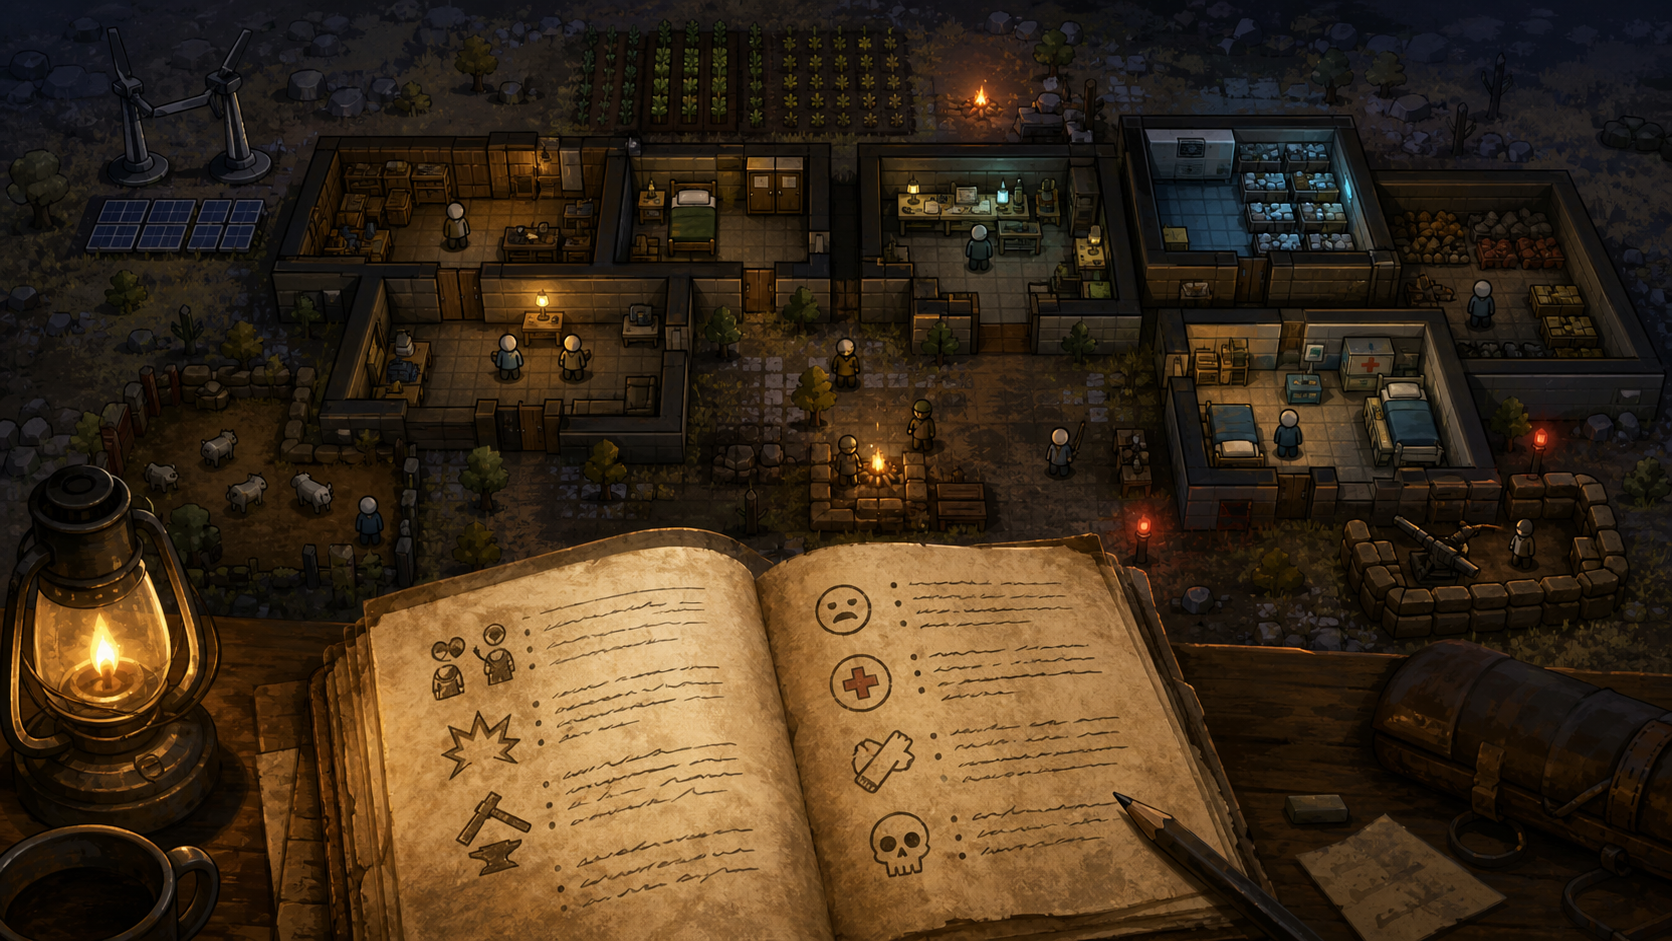
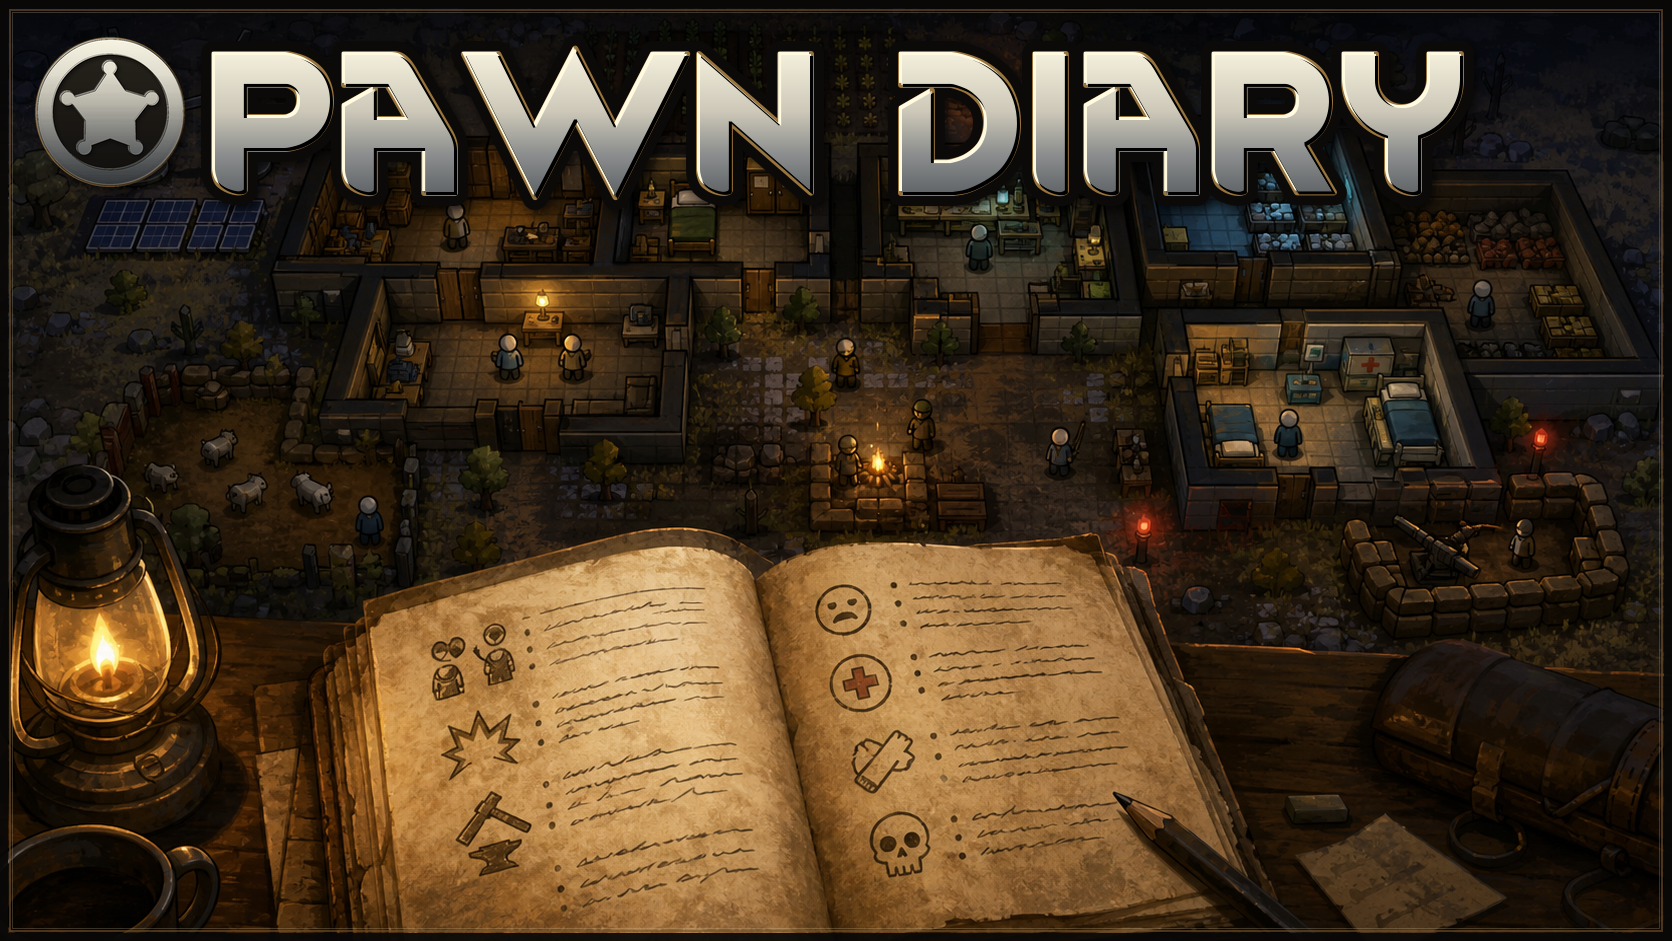
Fix transient cache growth and update preview

diff --git a/Source/Core/DiaryGameComponent.Lookup.cs b/Source/Core/DiaryGameComponent.Lookup.cs
@@ -19,7 +19,14 @@ namespace PawnDiary
         /// </summary>
         private bool RecentlyRecorded(Dictionary<string, int> recentEvents, string key, int windowTicks)
         {
+            if (recentEvents == null || string.IsNullOrEmpty(key))
+            {
+                return false;
+            }
+
             int now = Find.TickManager.TicksGame;
+            PruneRecentEvents(recentEvents, now, windowTicks);
+
             int last;
             if (recentEvents.TryGetValue(key, out last) && now - last < windowTicks)
             {
@@ -28,6 +35,42 @@ namespace PawnDiary
 
             recentEvents[key] = now;
             return false;
+        }
+
+        /// <summary>
+        /// Removes dedup keys that are older than their useful window. The dictionaries are transient
+        /// and only answer "did this just happen?", so old keys should not survive a long play session.
+        /// </summary>
+        private static void PruneRecentEvents(Dictionary<string, int> recentEvents, int now, int windowTicks)
+        {
+            if (recentEvents == null || recentEvents.Count < RecentEventPruneThreshold)
+            {
+                return;
+            }
+
+            List<string> expiredKeys = null;
+            foreach (KeyValuePair<string, int> pair in recentEvents)
+            {
+                if (windowTicks <= 0 || now - pair.Value >= windowTicks)
+                {
+                    if (expiredKeys == null)
+                    {
+                        expiredKeys = new List<string>();
+                    }
+
+                    expiredKeys.Add(pair.Key);
+                }
+            }
+
+            if (expiredKeys == null)
+            {
+                return;
+            }
+
+            for (int i = 0; i < expiredKeys.Count; i++)
+            {
+                recentEvents.Remove(expiredKeys[i]);
+            }
         }
 
         /// <summary>

diff --git a/Source/Defs/DiaryPersonaDef.cs b/Source/Defs/DiaryPersonaDef.cs
@@ -51,6 +51,10 @@ namespace PawnDiary
 
         // Wrapped in a list so All can return a non-null IReadOnlyList even with zero XML defs.
         private static readonly List<DiaryPersonaDef> FallbackList = new List<DiaryPersonaDef> { Fallback };
+        private static IReadOnlyList<DiaryPersonaDef> cachedAll;
+        private static IReadOnlyList<DiaryPersonaDef> cachedBaseList;
+        private static int cachedBaseCount = -1;
+        private static PawnDiarySettings cachedSettings;
 
         /// <summary>
         /// All loaded persona defs, or the hardcoded fallback list if none exist in XML.
@@ -61,8 +65,32 @@ namespace PawnDiary
             {
                 List<DiaryPersonaDef> defs = DefDatabase<DiaryPersonaDef>.AllDefsListForReading;
                 IReadOnlyList<DiaryPersonaDef> baseList = defs != null && defs.Count > 0 ? defs : FallbackList;
-                return MergeWithSettings(baseList);
+                PawnDiarySettings settings = PawnDiaryMod.Settings;
+                if (cachedAll != null
+                    && ReferenceEquals(cachedBaseList, baseList)
+                    && cachedBaseCount == baseList.Count
+                    && ReferenceEquals(cachedSettings, settings))
+                {
+                    return cachedAll;
+                }
+
+                cachedBaseList = baseList;
+                cachedBaseCount = baseList.Count;
+                cachedSettings = settings;
+                cachedAll = MergeWithSettings(baseList, settings);
+                return cachedAll;
             }
+        }
+
+        /// <summary>
+        /// Clears the merged persona catalog after settings-backed preset edits or load-time cleanup.
+        /// </summary>
+        public static void InvalidateCache()
+        {
+            cachedAll = null;
+            cachedBaseList = null;
+            cachedBaseCount = -1;
+            cachedSettings = null;
         }
 
         /// <summary>
@@ -201,9 +229,9 @@ namespace PawnDiary
         }
 
         // Builds the effective runtime catalog from XML defs plus settings-based edits/custom rows.
-        private static IReadOnlyList<DiaryPersonaDef> MergeWithSettings(IReadOnlyList<DiaryPersonaDef> baseList)
+        private static IReadOnlyList<DiaryPersonaDef> MergeWithSettings(IReadOnlyList<DiaryPersonaDef> baseList,
+            PawnDiarySettings settings)
         {
-            PawnDiarySettings settings = PawnDiaryMod.Settings;
             if (settings == null)
             {
                 return baseList;

diff --git a/Source/Settings/PawnDiarySettings.cs b/Source/Settings/PawnDiarySettings.cs
@@ -220,6 +220,10 @@ namespace PawnDiary
             Scribe_Collections.Look(ref personaPresets, "personaPresets", LookMode.Deep);
 
             ClampValues();
+            if (Scribe.mode == LoadSaveMode.PostLoadInit)
+            {
+                DiaryPersonas.InvalidateCache();
+            }
         }
 
         /// <summary>
@@ -762,6 +766,8 @@ namespace PawnDiary
                 existing.themes = NormalizeThemes(themes);
                 existing.custom = false;
             }
+
+            DiaryPersonas.InvalidateCache();
         }
 
         /// <summary>
@@ -774,7 +780,10 @@ namespace PawnDiary
                 return;
             }
 
-            personaPresets.RemoveAll(preset => preset != null && !preset.custom && preset.defName == defName);
+            if (personaPresets.RemoveAll(preset => preset != null && !preset.custom && preset.defName == defName) > 0)
+            {
+                DiaryPersonas.InvalidateCache();
+            }
         }
 
         /// <summary>
@@ -790,6 +799,7 @@ namespace PawnDiary
                 string.Empty,
                 new[] { DiaryPersonas.PredefinedThemeTags[0] },
                 true));
+            DiaryPersonas.InvalidateCache();
             return defName;
         }
 
@@ -803,7 +813,10 @@ namespace PawnDiary
                 return;
             }
 
-            personaPresets.RemoveAll(preset => preset != null && preset.custom && preset.defName == defName);
+            if (personaPresets.RemoveAll(preset => preset != null && preset.custom && preset.defName == defName) > 0)
+            {
+                DiaryPersonas.InvalidateCache();
+            }
         }
 
         /// <summary>
@@ -813,6 +826,7 @@ namespace PawnDiary
         {
             EnsurePersonaPresetList();
             personaPresets.Clear();
+            DiaryPersonas.InvalidateCache();
         }
 
         // Generates deterministic custom persona keys so they are stable across saves and merges.

diff --git a/Source/UI/ITab_Pawn_Diary.cs b/Source/UI/ITab_Pawn_Diary.cs
@@ -91,6 +91,9 @@ namespace PawnDiary
         // the only visible effect is that currently-shown cards fade in once more, which is rare (it
         // takes hundreds of distinct entry states to trigger) and harmless.
         private const int MaxFirstSeenEntries = 512;
+        // Same idea for per-card expand/collapse animation blends. The tab object is long-lived and
+        // shared across pawns, so stale animation keys should not accumulate forever.
+        private const int MaxExpansionBlendEntries = MaxFirstSeenEntries;
         // Old saves have only the display date, not an absolute tick. Use this sentinel when a
         // date cannot be grouped into a game year; such entries stay reachable on an "undated" page.
         private const int UnknownYear = int.MinValue;
@@ -549,6 +552,11 @@ namespace PawnDiary
             float current;
             if (!entryExpansionBlend.TryGetValue(entryKey, out current))
             {
+                if (entryExpansionBlend.Count >= MaxExpansionBlendEntries)
+                {
+                    entryExpansionBlend.Clear();
+                }
+
                 current = target;
             }
             else if (delta > 0f)

diff --git a/Source/Core/DiaryGameComponent.AmbientThoughts.cs b/Source/Core/DiaryGameComponent.AmbientThoughts.cs
@@ -4,6 +4,7 @@
 // entry per thought. Major thoughts still flow through DiaryGameComponent.Thoughts.cs immediately.
 using System;
 using System.Collections.Generic;
+using System.Globalization;
 using System.Text;
 using RimWorld;
 using Verse;
@@ -168,7 +169,7 @@ namespace PawnDiary
                 + "; events=" + note.eventCount
                 + "; day=" + note.dayIndex
                 + "; mood_impact=" + moodImpact
-                + "; mood_offset_sum=" + note.totalMoodOffset.ToString("F1")
+                + "; mood_offset_sum=" + note.totalMoodOffset.ToString("F1", CultureInfo.InvariantCulture)
                 + "; first_tick=" + note.firstTick
                 + "; last_tick=" + note.lastTick;
 
@@ -265,7 +266,7 @@ namespace PawnDiary
         /// </summary>
         private static string AmbientThoughtLine(string label, float moodOffset)
         {
-            return DiaryContextBuilder.CleanLine(label) + " (" + moodOffset.ToString("F1") + ")";
+            return DiaryContextBuilder.CleanLine(label) + " (" + moodOffset.ToString("F1", CultureInfo.InvariantCulture) + ")";
         }
 
         /// <summary>

diff --git a/Source/Core/DiaryGameComponent.Thoughts.cs b/Source/Core/DiaryGameComponent.Thoughts.cs
@@ -7,6 +7,7 @@
 // This is one piece of the partial DiaryGameComponent class — see DiaryGameComponent.cs for the map.
 using System;
 using System.Collections.Generic;
+using System.Globalization;
 using System.Text;
 using RimWorld;
 using UnityEngine;
@@ -86,8 +87,8 @@ namespace PawnDiary
             string gameContext = "thought=" + thoughtDefName
                 + "; label=" + label
                 + "; mood_impact=" + moodImpact
-                + "; mood_offset=" + moodOffset.ToString("F1")
-                + "; duration_days=" + thought.def.durationDays.ToString("F1");
+                + "; mood_offset=" + moodOffset.ToString("F1", CultureInfo.InvariantCulture)
+                + "; duration_days=" + thought.def.durationDays.ToString("F1", CultureInfo.InvariantCulture);
 
             string text = MoodImpact.PickText(moodImpact,
                 "PawnDiary.Event.ThoughtPositive", "PawnDiary.Event.ThoughtNegative", "PawnDiary.Event.Thought",

diff --git a/Source/Generation/DeathContextCache.cs b/Source/Generation/DeathContextCache.cs
@@ -4,6 +4,7 @@
 // New to C#/RimWorld? See AGENTS.md ("Harmony patches").
 using System;
 using System.Collections.Generic;
+using System.Globalization;
 using RimWorld;
 using Verse;
 
@@ -115,7 +116,7 @@ namespace PawnDiary
 
             if (info.Amount > 0f)
             {
-                parts.Add("damageAmount=" + info.Amount.ToString("0.#"));
+                parts.Add("damageAmount=" + info.Amount.ToString("0.#", CultureInfo.InvariantCulture));
             }
 
             BodyPartRecord hitPart = info.HitPart;
@@ -165,7 +166,7 @@ namespace PawnDiary
 
             if (exactCulprit.Severity > 0f)
             {
-                parts.Add("culpritSeverity=" + exactCulprit.Severity.ToString("0.##"));
+                parts.Add("culpritSeverity=" + exactCulprit.Severity.ToString("0.##", CultureInfo.InvariantCulture));
             }
         }
 

diff --git a/Source/Core/DiaryGameComponent.ThoughtProgression.cs b/Source/Core/DiaryGameComponent.ThoughtProgression.cs
@@ -6,6 +6,7 @@
 // This is one piece of the partial DiaryGameComponent class — see DiaryGameComponent.cs for the map.
 using System;
 using System.Collections.Generic;
+using System.Globalization;
 using RimWorld;
 using UnityEngine;
 using Verse;
@@ -171,7 +172,7 @@ namespace PawnDiary
                 + "; stage_index=" + match.stageIndex.ToString()
                 + "; severity=" + match.severity.ToString()
                 + "; mood_impact=" + moodImpact
-                + "; mood_offset=" + match.moodOffset.ToString("F1");
+                + "; mood_offset=" + match.moodOffset.ToString("F1", CultureInfo.InvariantCulture);
 
             string text = "PawnDiary.Event.ThoughtProgressionNegative".Translate(
                 pawn.LabelShortCap, match.label).Resolve();

diff --git a/Source/Core/DiaryGameComponent.cs b/Source/Core/DiaryGameComponent.cs
@@ -48,6 +48,9 @@ namespace PawnDiary
     public partial class DiaryGameComponent : GameComponent
     {
         // Dedup windows live in DiaryTuningDef (editable XML); see DiaryTuning.Current.
+        // The transient dedup dictionaries keep only recent keys. Once any dictionary crosses this
+        // size, the shared gate sweeps entries outside that source's configured dedup window.
+        private const int RecentEventPruneThreshold = 512;
         // Synthetic Tale-domain groups for notable events vanilla does not expose as TaleDefs.
         private const string TaleQualityGroupKey = "talequality";
         private const string TaleRelicGroupKey = "talerelic";

diff --git a/Source/Generation/DiaryContextBuilder.cs b/Source/Generation/DiaryContextBuilder.cs
@@ -4,6 +4,7 @@
 // Split out of DiaryGameComponent.cs. See DOCUMENTATION.md.
 using System;
 using System.Collections.Generic;
+using System.Globalization;
 using System.Linq;
 using System.Text.RegularExpressions;
 using RimWorld;
@@ -513,7 +514,7 @@ namespace PawnDiary
             float bleedRate = pawn.health.hediffSet?.BleedRateTotal ?? 0f;
             if (bleedRate > DiaryTuning.Current.bleedVisibleAbove)
             {
-                parts.Add("bleeding=" + bleedRate.ToString("0.##") + "/day");
+                parts.Add("bleeding=" + bleedRate.ToString("0.##", CultureInfo.InvariantCulture) + "/day");
             }
 
             string notableHediffs = BuildNotableHediffsSummary(pawn);

diff --git a/Source/Models/DiaryEvent.cs b/Source/Models/DiaryEvent.cs
@@ -271,7 +271,7 @@ namespace PawnDiary
                     moodImpact = MoodImpact.Neutral;
                 }
 
-                if (neutralStatus == null)
+                if (string.IsNullOrWhiteSpace(neutralStatus))
                 {
                     neutralStatus = NotGeneratedStatus;
                 }

diff --git a/Source/Settings/PawnDiaryMod.cs b/Source/Settings/PawnDiaryMod.cs
@@ -664,6 +664,7 @@ namespace PawnDiary
                         customPreset.label = editedLabel ?? string.Empty;
                         customPreset.rule = editedRule ?? string.Empty;
                         customPreset.themes = editedThemes;
+                        DiaryPersonas.InvalidateCache();
                     }
                 }
                 else